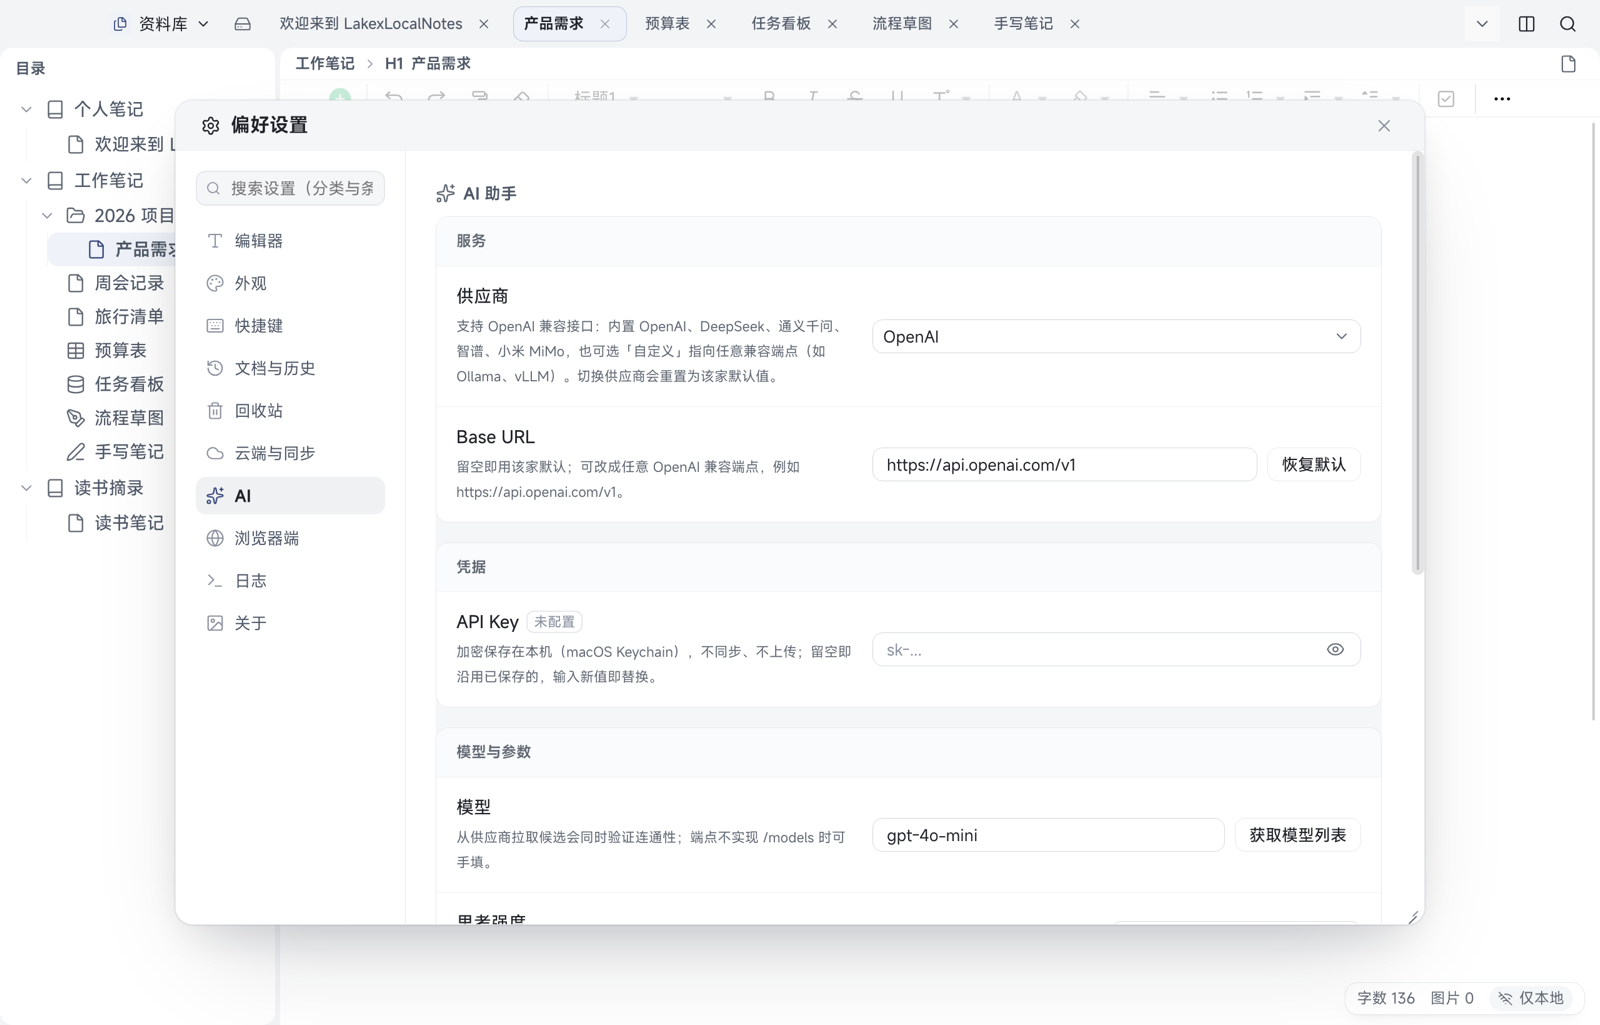
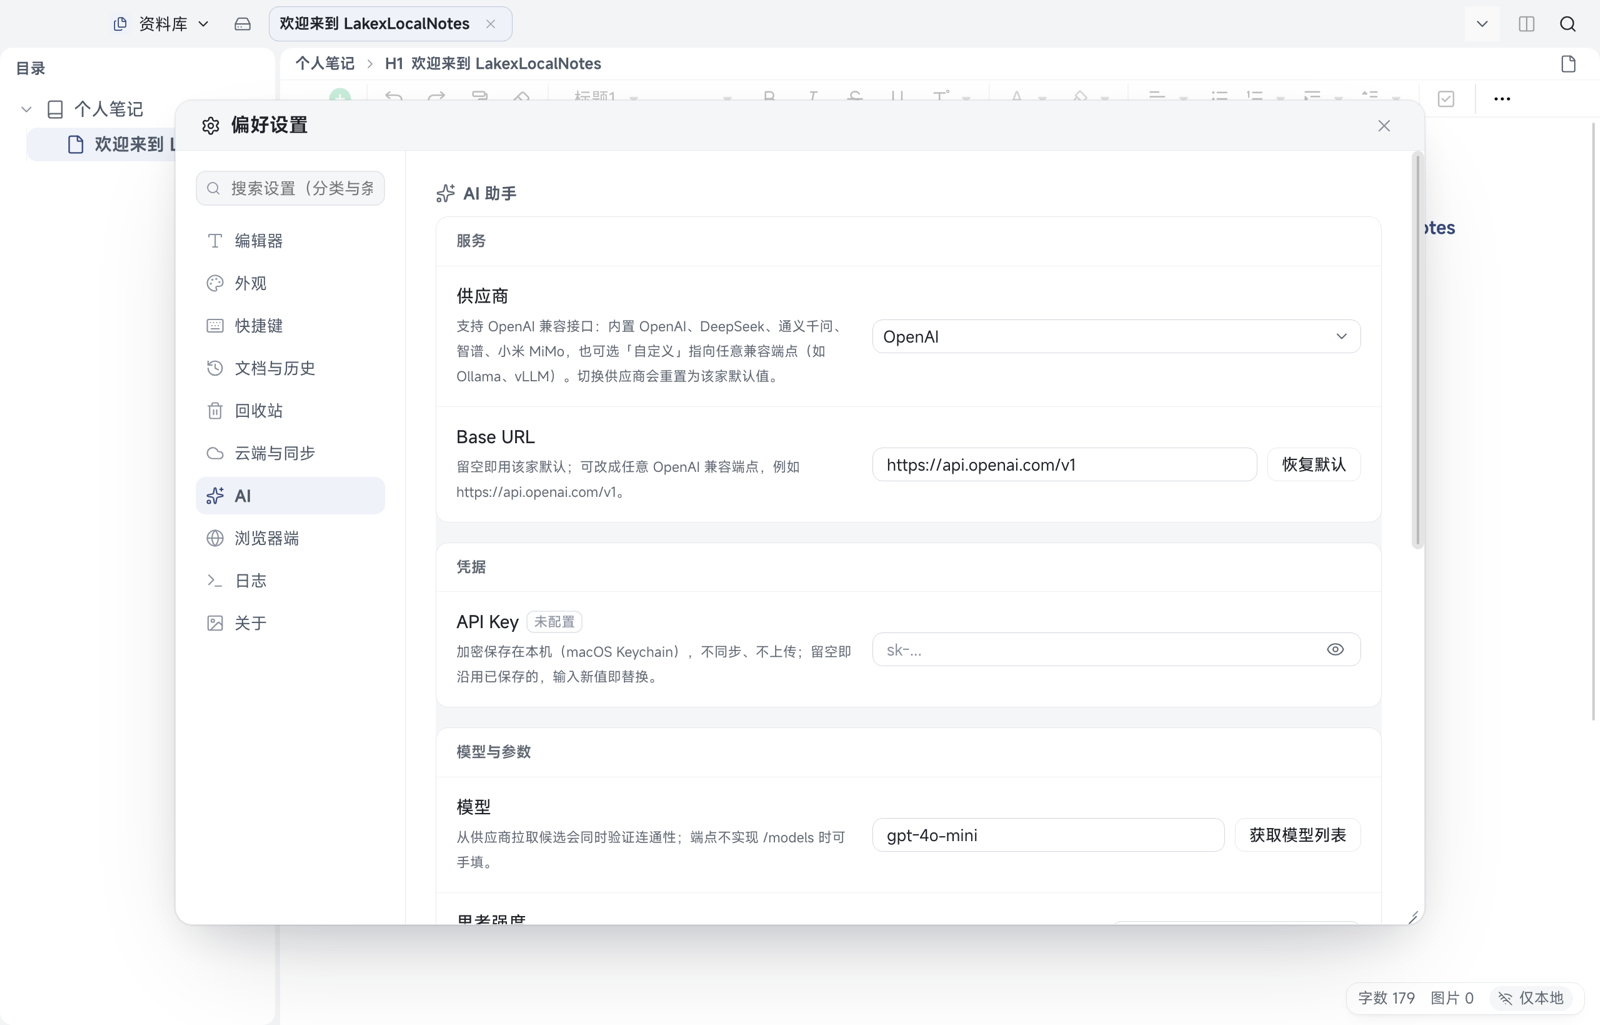
feat(welcome,ai): 首启欢迎页统一（Android 默认小记 + Gitee/GitHub 手册入口）+ 桌面 AI 总开关 + AI 页去灰底
- 欢迎页单一来源：core/lakeDocForm.ts WELCOME_TITLE/INTRO/GUIDE_LINKS；桌面 welcomeLakeBody（可点击），Android welcomeQuickNoteBody/Text（同内容）。含 Gitee/GitHub guide/README.md 入口。\n- Android：全新库自动建一条「欢迎」小记（固定 id，flag 不复活；有数据旧库不插入）；seedWelcomeQuickNote + 判据单测；门禁夹具删除该小记保持 4 条确定性夹具。\n- 桌面 AI：设置→AI→连通性 新增 ai-enabled 开关（localStorage 默认开）；关闭后 runAiChat 直接拒绝不出网；未配 Key 开启给行内提示；settingsSearch 登记。\n- AI 页：config-section__title 去灰底（transparent），分组边界由卡片边承担；手册截图重拍，01/10/12 章补说明。\n- 基线：新装夹具 home-doc 指纹变化→6 态重烤，门禁连跑 0 差异。\n- 门禁：tsc 0 / vitest 508 文件 3164 例 / ui-metrics / check:core / check:mobileui / 移动 build / check:bundle / diff-check。

diff --git a/src/core/lakeDocForm.ts b/src/core/lakeDocForm.ts
@@ -18,9 +18,57 @@ export function emptyLakeBody(noteId: string): string {
   return `<p id="${noteId}-body" class="ne-p"><br></p>`;
 }
 
-/** 首启欢迎笔记正文。固定 id：全设备一致，S3 同步不会产生重复。 */
-export const WELCOME_NOTE_BODY =
-  `<h1 id="welcome" class="ne-h1">欢迎来到 LakexLocalNotes</h1><p id="welcome-body" class="ne-p">这是一个基于 Lake 编辑器的本地优先笔记应用（Electron 桌面端）。</p>`;
+/** 首启欢迎页：桌面欢迎文档与 Android 默认小记共用同一份内容（固定标题/正文块）。 */
+export const WELCOME_TITLE = "欢迎来到 LakexLocalNotes";
+/** Android 首启默认小记的固定 id（与桌面 welcome-note 同理：全设备一致，同步不产生重复）。 */
+export const WELCOME_QUICK_NOTE_ID = "welcome-quick-note";
+/** 使用说明（仓库里的 guide/）——文档放在 Gitee 与 GitHub 两边，链接写死这两个入口。 */
+export const WELCOME_GUIDE_LINKS = [
+  { label: "使用说明（Gitee）", url: "https://gitee.com/gtycoder/lakex-local-notes/blob/master/guide/README.md" },
+  { label: "使用说明（GitHub）", url: "https://github.com/gtycoder/lakex-local-notes/blob/master/guide/README.md" },
+] as const;
+
+const WELCOME_INTRO = [
+  "这是一个本地优先的笔记应用：笔记、表格、多维表、画板、手写板和小记都保存在本机，不依赖云端也能写作与检索。",
+  "如果要在多台设备之间同步，可以在「设置」里填入你自己的 S3（七牛 Kodo、阿里云 OSS、Cloudflare R2 等）。S3 只作镜像，本地始终是真相。",
+  "小提示：桌面按 ⌘K 全局搜索；Android 从首页胶囊搜索。删除的文档会先进回收站，默认 90 天后自动清理。",
+] as const;
+
+function lakeLinkParagraph(paragraphId: string, textId: string, label: string, url: string): string {
+  return `<p data-lake-id="${paragraphId}" id="${paragraphId}" class="ne-p"><span data-lake-id="${textId}" id="${textId}"><a href="${escapeLakeHtml(url)}" target="_blank" rel="noreferrer">${escapeLakeHtml(label)}</a></span></p>`;
+}
+
+/** 首启欢迎笔记正文（Lake HTML）。固定 id：全设备一致，S3 同步不会产生重复。 */
+export function welcomeLakeBody(): string {
+  const parts = [
+    `<h1 id="welcome" class="ne-h1">${WELCOME_TITLE}</h1>`,
+    lakeTextParagraph("welcome-body", "welcome-body-text", WELCOME_INTRO[0]),
+    lakeTextParagraph("welcome-sync", "welcome-sync-text", WELCOME_INTRO[1]),
+    lakeTextParagraph("welcome-tips", "welcome-tips-text", WELCOME_INTRO[2]),
+    lakeTextParagraph("welcome-guide", "welcome-guide-text", "使用说明："),
+  ];
+  WELCOME_GUIDE_LINKS.forEach((link, index) => {
+    parts.push(lakeLinkParagraph(`welcome-guide-${index + 1}`, `welcome-guide-${index + 1}-text`, link.label, link.url));
+  });
+  return parts.join("");
+}
+
+/** 首启欢迎小记的纯文本镜像（移动端预览/搜索用；正文 body 用 welcomeLakeBody）。 */
+export function welcomeQuickNoteText(): string {
+  return [
+    WELCOME_TITLE,
+    "",
+    WELCOME_INTRO[0],
+    WELCOME_INTRO[1],
+    "",
+    "使用说明：",
+    ...WELCOME_GUIDE_LINKS.map((link) => `${link.label}：${link.url}`),
+    "",
+    WELCOME_INTRO[2],
+  ].join("\n");
+}
+
+export const WELCOME_NOTE_BODY = welcomeLakeBody();
 
 /** Lake 正文里文本节点的最小转义（与内核写入时一致）。 */
 export function escapeLakeHtml(value: string): string {

diff --git a/src/components/app/SettingsPanel.tsx b/src/components/app/SettingsPanel.tsx
@@ -45,6 +45,7 @@ import { formatBytes } from "../../lib/formatBytes";
 import { formatDateTime } from "../../core/dateFormat";
 import { formatS3v3Diagnostics, type S3v3DiagnosticReport } from "../../core/s3v3Report";
 import { effectiveS3Settings, isQiniuEndpoint, s3ConfigFingerprint } from "../../lib/s3FormState";
+import { loadAiEnabled, saveAiEnabled } from "../../lib/aiEnabled";
 
 export type SettingsCategory = "editor" | "appearance" | "shortcuts" | "history" | "sync" | "ai" | "trash" | "browser" | "logs" | "about";
 
@@ -111,6 +112,10 @@ let verifiedS3Fingerprint: string | null = null;
   const [aiView, setAiView] = useState<AiSettingsView | null>(null);
   /** AI 动作的结果提示（保存 / 测试 / 拉模型列表共用这一条通道，谁最后写谁显示）。 */
   const [aiMsg, setAiMsg] = useState<string | null>(null);
+  /** AI 总开关（设备本地；关闭后任何路径不出网，配置与 Key 保留）。 */
+  const [aiEnabled, setAiEnabled] = useState(() => loadAiEnabled());
+  /** 尝试在未配置 Key 时开启 AI 的行内提示。 */
+  const [aiEnableAlert, setAiEnableAlert] = useState<string | null>(null);
   /** 字段级错误（键：apiKey / baseUrl / model / all）——比一个笼统提示好用。 */
   const [aiErr, setAiErr] = useState<Record<string, string>>({});
   /** 未保存的编辑值；apiKey 只在本组件内存里，测通后才落盘。 */
@@ -1044,6 +1049,23 @@ let verifiedS3Fingerprint: string | null = null;
                       {aiErr.all && <div className="config-item__error">{aiErr.all}</div>}
                       {aiMsg && <div className="config-note">{aiMsg}</div>}
                     </Block>
+                    <Switch
+                      itemId="ai-enabled"
+                      name="AI 助手"
+                      desc="关闭后 AI 助手不出网，配置与 API Key 保留；重新打开即可继续使用。"
+                      alert={aiEnableAlert}
+                      checked={aiEnabled}
+                      onChange={(checked) => {
+                        // 与「启用云同步」同口径：没有可用配置就别让用户以为已经能用；配好后可随时关/开。
+                        if (checked && !activeAi?.hasApiKey) {
+                          setAiEnableAlert("先在上方填好供应商与 API Key 并保存，再开启 AI 助手。");
+                          return;
+                        }
+                        setAiEnableAlert(null);
+                        saveAiEnabled(checked);
+                        setAiEnabled(checked);
+                      }}
+                    />
                   </Section>
                 </Group>
                 <Group title="说明">

diff --git a/src/mobile/data/welcomeQuickNote.ts b/src/mobile/data/welcomeQuickNote.ts
@@ -1,0 +1,47 @@
+/**
+ * 首启默认小记（Android）：把与桌面欢迎文档**同一份**欢迎页写进一条小记。
+ *
+ * 规则（261029 用户点单）：
+ *  - 只在**全新库**（没有任何小记、也没有任何文档）时创建一次；固定 id 与桌面 welcome-note 同理，
+ *    多端首启同步不会产生重复；
+ *  - 标记 `welcome_quick_note_initialized` 一旦写入，用户删除后**不复活**（与 seed_initialized 同口径）；
+ *  - 已有数据的库只补标记、不插入（避免给老用户塞内容）；
+ *  - 失败只 warn、不阻断启动（欢迎页不是核心数据）。
+ */
+import { WELCOME_QUICK_NOTE_ID, welcomeLakeBody, welcomeQuickNoteText } from "../../core/lakeDocForm.js";
+import type { MobileDb } from "./sqliteDb";
+import { saveQuickNoteContent } from "./quickNotesRepository";
+
+export const WELCOME_QUICK_NOTE_FLAG = "welcome_quick_note_initialized";
+
+/** 纯判据：新库 + 没有任何小记/文档 + 没种过 ⇒ 建欢迎小记。 */
+export function shouldSeedWelcomeQuickNote(input: { seeded: boolean; quickNoteCount: number; noteCount: number }): boolean {
+  return !input.seeded && input.quickNoteCount === 0 && input.noteCount === 0;
+}
+
+export async function seedWelcomeQuickNote(d: MobileDb): Promise<boolean> {
+  try {
+    const flag = await d.prepare("SELECT value FROM device_state WHERE key=?").get(WELCOME_QUICK_NOTE_FLAG) as { value?: string } | undefined;
+    if (flag?.value) return false;
+    const quick = await d.prepare("SELECT COUNT(*) AS c FROM quick_notes").get() as { c: number };
+    const notes = await d.prepare("SELECT COUNT(*) AS c FROM notes").get() as { c: number };
+    const seeded = shouldSeedWelcomeQuickNote({
+      seeded: false,
+      quickNoteCount: Number(quick.c),
+      noteCount: Number(notes.c),
+    });
+    if (seeded) {
+      // 正文用内核 HTML（含 Gitee/GitHub 使用说明链接），text 是同一份内容的纯文本镜像（预览/搜索用）。
+      await saveQuickNoteContent(d, WELCOME_QUICK_NOTE_ID, {
+        text: welcomeQuickNoteText(),
+        body: welcomeLakeBody(),
+        images: [],
+      });
+    }
+    await d.prepare("INSERT INTO device_state(key,value) VALUES(?, '1') ON CONFLICT(key) DO NOTHING").run(WELCOME_QUICK_NOTE_FLAG);
+    return seeded;
+  } catch (error) {
+    console.warn("[welcome] 默认小记初始化失败（不阻断启动）：", error);
+    return false;
+  }
+}

diff --git a/src/core/lakeDocForm.test.ts b/src/core/lakeDocForm.test.ts
@@ -6,7 +6,10 @@ import {
   lakeEmptyParagraph,
   lakeImageCardParagraph,
   lakeTextParagraph,
+  WELCOME_GUIDE_LINKS,
   WELCOME_NOTE_BODY,
+  WELCOME_TITLE,
+  welcomeQuickNoteText,
 } from "./lakeDocForm";
 
 describe("Lake 正文写入形态（单一来源）", () => {
@@ -14,9 +17,21 @@ describe("Lake 正文写入形态（单一来源）", () => {
     expect(emptyLakeBody("abc")).toBe('<p id="abc-body" class="ne-p"><br></p>');
   });
 
-  it("欢迎笔记正文固定不变（全设备一致）", () => {
+  it("欢迎页：桌面文档与 Android 小记共用同一份内容，含 Gitee/GitHub 使用说明链接", () => {
     expect(WELCOME_NOTE_BODY).toContain('<h1 id="welcome" class="ne-h1">');
-    expect(WELCOME_NOTE_BODY).toContain('<p id="welcome-body" class="ne-p">');
+    expect(WELCOME_NOTE_BODY).toContain(WELCOME_TITLE);
+    expect(WELCOME_NOTE_BODY).toContain('<p data-lake-id="welcome-body" id="welcome-body" class="ne-p">');
+    for (const link of WELCOME_GUIDE_LINKS) {
+      expect(WELCOME_NOTE_BODY).toContain('href="' + link.url + '"');
+      expect(WELCOME_NOTE_BODY).toContain(link.label);
+    }
+    // 纯文本镜像（Android 默认小记的 text 字段 / 预览 / 搜索）同样带两个链接入口。
+    const text = welcomeQuickNoteText();
+    expect(text).toContain(WELCOME_TITLE);
+    for (const link of WELCOME_GUIDE_LINKS) expect(text).toContain(link.url);
+    // 界面文案禁用中点。
+    expect(WELCOME_NOTE_BODY.includes("·")).toBe(false);
+    expect(text.includes("·")).toBe(false);
   });
 
   it("段落：含 data-lake-id / id / 内层 span，且文本按 Lake 规则转义", () => {

diff --git a/src/mobile/bridge/context.ts b/src/mobile/bridge/context.ts
@@ -8,6 +8,7 @@
 import { NativeSqliteDb } from "../native/nativeSqliteDb";
 
 import { applyMobileSchema } from "../data/schema";
+import { seedWelcomeQuickNote } from "../data/welcomeQuickNote";
 import { ensureV3StateTable } from "../data/v3StateRepository";
 import { reconcileIndex } from "../data/searchIndex";
 import { createMobileLocalStorePort, type MobileLocalStorePort } from "../data/localStorePort";
@@ -95,6 +96,9 @@ export async function initializeDb(): Promise<NativeSqliteDb> {
   // 打开文档补拉（ensureAssetsNative）会在首次同步前读它 ⇒ 全新安装直接报 no such table。统一在开库时建。
   await ensureV3StateTable(openedDb);
   db = openedDb;
+  // 首启默认小记（261029 用户点单）：全新库写入与桌面欢迎文档同一份欢迎页（含 Gitee/GitHub 使用说明链接）。
+  // 必须在 reconcileIndex 之前写，索引重建才能把它一起收进去；内部失败只 warn，不阻断启动。
+  try { await seedWelcomeQuickNote(openedDb); } catch (error) { console.warn("[welcome] 默认小记初始化异常：", error); }
   try { await reconcileIndex(openedDb); } catch (error) { console.warn("[search] reconcile failed:", error); }
   return openedDb;
 }

diff --git a/electron/schemaInit.ts b/electron/schemaInit.ts
@@ -1,5 +1,5 @@
 import type { DbLike } from "./dbLike.js";
-import { WELCOME_NOTE_BODY } from "../src/core/lakeDocForm.js";
+import { WELCOME_NOTE_BODY, WELCOME_TITLE } from "../src/core/lakeDocForm.js";
 import {
   NOTES_SEARCH_LEDGER_ROWID_INDEX,
   NOTES_SEARCH_LEDGER_TABLE,
@@ -205,9 +205,9 @@ export class SchemaInit {
       const content = WELCOME_NOTE_BODY;
       const tx = this.ctx.db.transaction(() => {
         this.ctx.db.prepare("INSERT INTO notes(id,title,parent_id,sort_order,updated_at,is_dirty) VALUES(?,?,?,?,?,1)")
-          .run(id, "欢迎来到 LakexLocalNotes", parent, sortOrder, updatedAt);
+          .run(id, WELCOME_TITLE, parent, sortOrder, updatedAt);
         this.ctx.db.prepare("INSERT INTO tree_nodes(id,workspace_id,parent_id,node_type,title,note_file_id,sort_order,created_at,updated_at,is_dirty,is_conflict) VALUES(?,?,?,'note',?,?,?,?,?,1,0)")
-          .run(id, this.ctx.workspaceId, parent, "欢迎来到 LakexLocalNotes", id, sortOrder, updatedAt, updatedAt);
+          .run(id, this.ctx.workspaceId, parent, WELCOME_TITLE, id, sortOrder, updatedAt, updatedAt);
         this.ctx.atomicWrite(this.ctx.notePathFor(id), content);
       });
       tx();

diff --git a/src/lib/ai.test.ts b/src/lib/ai.test.ts
@@ -1,0 +1,30 @@
+// @vitest-environment jsdom
+import { beforeEach, describe, expect, it, vi } from "vitest";
+
+const mocks = vi.hoisted(() => ({
+  aiChat: vi.fn(),
+  onAiStream: vi.fn(() => () => undefined),
+}));
+
+vi.mock("./native", () => ({ native: { aiChat: mocks.aiChat, onAiStream: mocks.onAiStream } }));
+
+import { runAiChat } from "./ai";
+
+describe("桌面 AI 总开关：关闭时任何路径不出网", () => {
+  beforeEach(() => {
+    window.localStorage.clear();
+    mocks.aiChat.mockReset().mockResolvedValue({ ok: true, text: "hi" });
+    mocks.onAiStream.mockClear();
+  });
+
+  it("关闭时直接拒绝，不调用主进程（不产生任何网络请求）", async () => {
+    window.localStorage.setItem("lakex-local-notes-v3.ai.enabled", "0");
+    await expect(runAiChat("r1", [])).rejects.toThrow("AI 助手已关闭");
+    expect(mocks.aiChat).not.toHaveBeenCalled();
+  });
+
+  it("开启时正常走主进程", async () => {
+    await expect(runAiChat("r2", [])).resolves.toMatchObject({ ok: true });
+    expect(mocks.aiChat).toHaveBeenCalledOnce();
+  });
+});

diff --git a/src/lib/aiEnabled.test.ts b/src/lib/aiEnabled.test.ts
@@ -1,0 +1,26 @@
+// @vitest-environment jsdom
+import { beforeEach, describe, expect, it } from "vitest";
+import { loadAiEnabled, saveAiEnabled } from "./aiEnabled";
+
+describe("桌面 AI 总开关（设备本地偏好）", () => {
+  beforeEach(() => { window.localStorage.clear(); });
+
+  it("默认开（保持既有行为不变）", () => {
+    expect(loadAiEnabled()).toBe(true);
+  });
+
+  it("关掉后读回 false，重新打开读回 true", () => {
+    saveAiEnabled(false);
+    expect(loadAiEnabled()).toBe(false);
+    saveAiEnabled(true);
+    expect(loadAiEnabled()).toBe(true);
+  });
+
+  it("localStorage 不可用时回落默认开（不因存储异常把 AI 锁死）", () => {
+    const original = Object.getOwnPropertyDescriptor(window, "localStorage");
+    Object.defineProperty(window, "localStorage", { configurable: true, get() { throw new Error("blocked"); } });
+    expect(loadAiEnabled()).toBe(true);
+    saveAiEnabled(false); // 不抛
+    if (original) Object.defineProperty(window, "localStorage", original);
+  });
+});

diff --git a/src/components/model/settingsSearch.ts b/src/components/model/settingsSearch.ts
@@ -46,6 +46,7 @@ export const SETTING_ITEMS: SettingItemEntry[] = [
   { id: "ai-reasoning", category: "ai", label: "AI 思考强度", keywords: "AI reasoning_effort 思考强度 effort low high max deepseek 推理" },
   { id: "ai-thinking", category: "ai", label: "AI 思考模式", keywords: "AI thinking 思考模式 开关 推理 deepseek" },
   { id: "ai-test", category: "ai", label: "AI 连通性测试", keywords: "AI 测试 连接 test 可用" },
+  { id: "ai-enabled", category: "ai", label: "AI 助手开关", keywords: "AI 开关 启用 关闭 不出网 enable disable" },
   { id: "search-rebuild", category: "logs", label: "重建全文搜索索引", keywords: "搜索 索引 fts 重建 修复 分词" },
   { id: "shortcut-esc", category: "shortcuts", label: "关闭当前菜单或浮层", keywords: "关闭 浮层 菜单 Esc" },
   { id: "history-stats", category: "history", label: "快照占用", keywords: "快照 占用 大小 清理" },

diff --git a/src/lib/ai.ts b/src/lib/ai.ts
@@ -1,4 +1,5 @@
 import { native } from "./native";
+import { loadAiEnabled } from "./aiEnabled";
 import type { AiChatMessage, AiChatResult, AiListModelsResult, AiProviderPatch, AiSettingsPatch, AiSettingsView, AiTestResult } from "../core/aiProviders";
 
 /**
@@ -36,6 +37,10 @@ export async function runAiChat(
   messages: AiChatMessage[],
   onDelta?: (delta: string) => void,
 ): Promise<AiChatResult> {
+  // 总开关：关闭时**任何路径都不出网**（与「关闭云同步 = 完全没配置」同语义；配置与 Key 保留）。
+  if (!loadAiEnabled()) {
+    throw new Error("AI 助手已关闭：到「设置 → AI 助手 → 连通性」重新开启后再试。");
+  }
   const off = onDelta ? native.onAiStream((chunk) => { if (chunk.requestId === requestId) onDelta(chunk.delta); }) : null;
   try {
     return await native.aiChat(requestId, messages);

diff --git a/src/lib/aiEnabled.ts b/src/lib/aiEnabled.ts
@@ -1,0 +1,24 @@
+/**
+ * 桌面端「AI 助手」总开关（设备本地偏好）。
+ *
+ * 与云同步的「启用」开关同一语义：**关闭 = 任何路径都不出网**（AI 请求在渲染层就被拦下），
+ * 但配置与 API Key 保留，重新打开即可继续用。默认开（保持既有行为不变）。
+ * 存 localStorage：只影响 UI/行为开关，不含任何密钥；不进 S3。
+ */
+const AI_ENABLED_KEY = "lakex-local-notes-v3.ai.enabled";
+
+export function loadAiEnabled(): boolean {
+  try {
+    return window.localStorage.getItem(AI_ENABLED_KEY) !== "0";
+  } catch {
+    return true;
+  }
+}
+
+export function saveAiEnabled(enabled: boolean): void {
+  try {
+    window.localStorage.setItem(AI_ENABLED_KEY, enabled ? "1" : "0");
+  } catch {
+    /* 存储不可用：本次会话按默认（开）处理 */
+  }
+}

diff --git a/src/mobile/data/welcomeQuickNote.test.ts b/src/mobile/data/welcomeQuickNote.test.ts
@@ -1,0 +1,15 @@
+import { describe, expect, it } from "vitest";
+import { shouldSeedWelcomeQuickNote } from "./welcomeQuickNote";
+
+describe("首启默认小记判据（Android）", () => {
+  it("全新库（无小记、无文档、未种过）才创建", () => {
+    expect(shouldSeedWelcomeQuickNote({ seeded: false, quickNoteCount: 0, noteCount: 0 })).toBe(true);
+  });
+  it("已经种过（用户删光了也不复活）", () => {
+    expect(shouldSeedWelcomeQuickNote({ seeded: true, quickNoteCount: 0, noteCount: 0 })).toBe(false);
+  });
+  it("已有小记或已有文档的库不插入（老用户不被打扰）", () => {
+    expect(shouldSeedWelcomeQuickNote({ seeded: false, quickNoteCount: 1, noteCount: 0 })).toBe(false);
+    expect(shouldSeedWelcomeQuickNote({ seeded: false, quickNoteCount: 0, noteCount: 1 })).toBe(false);
+  });
+});
